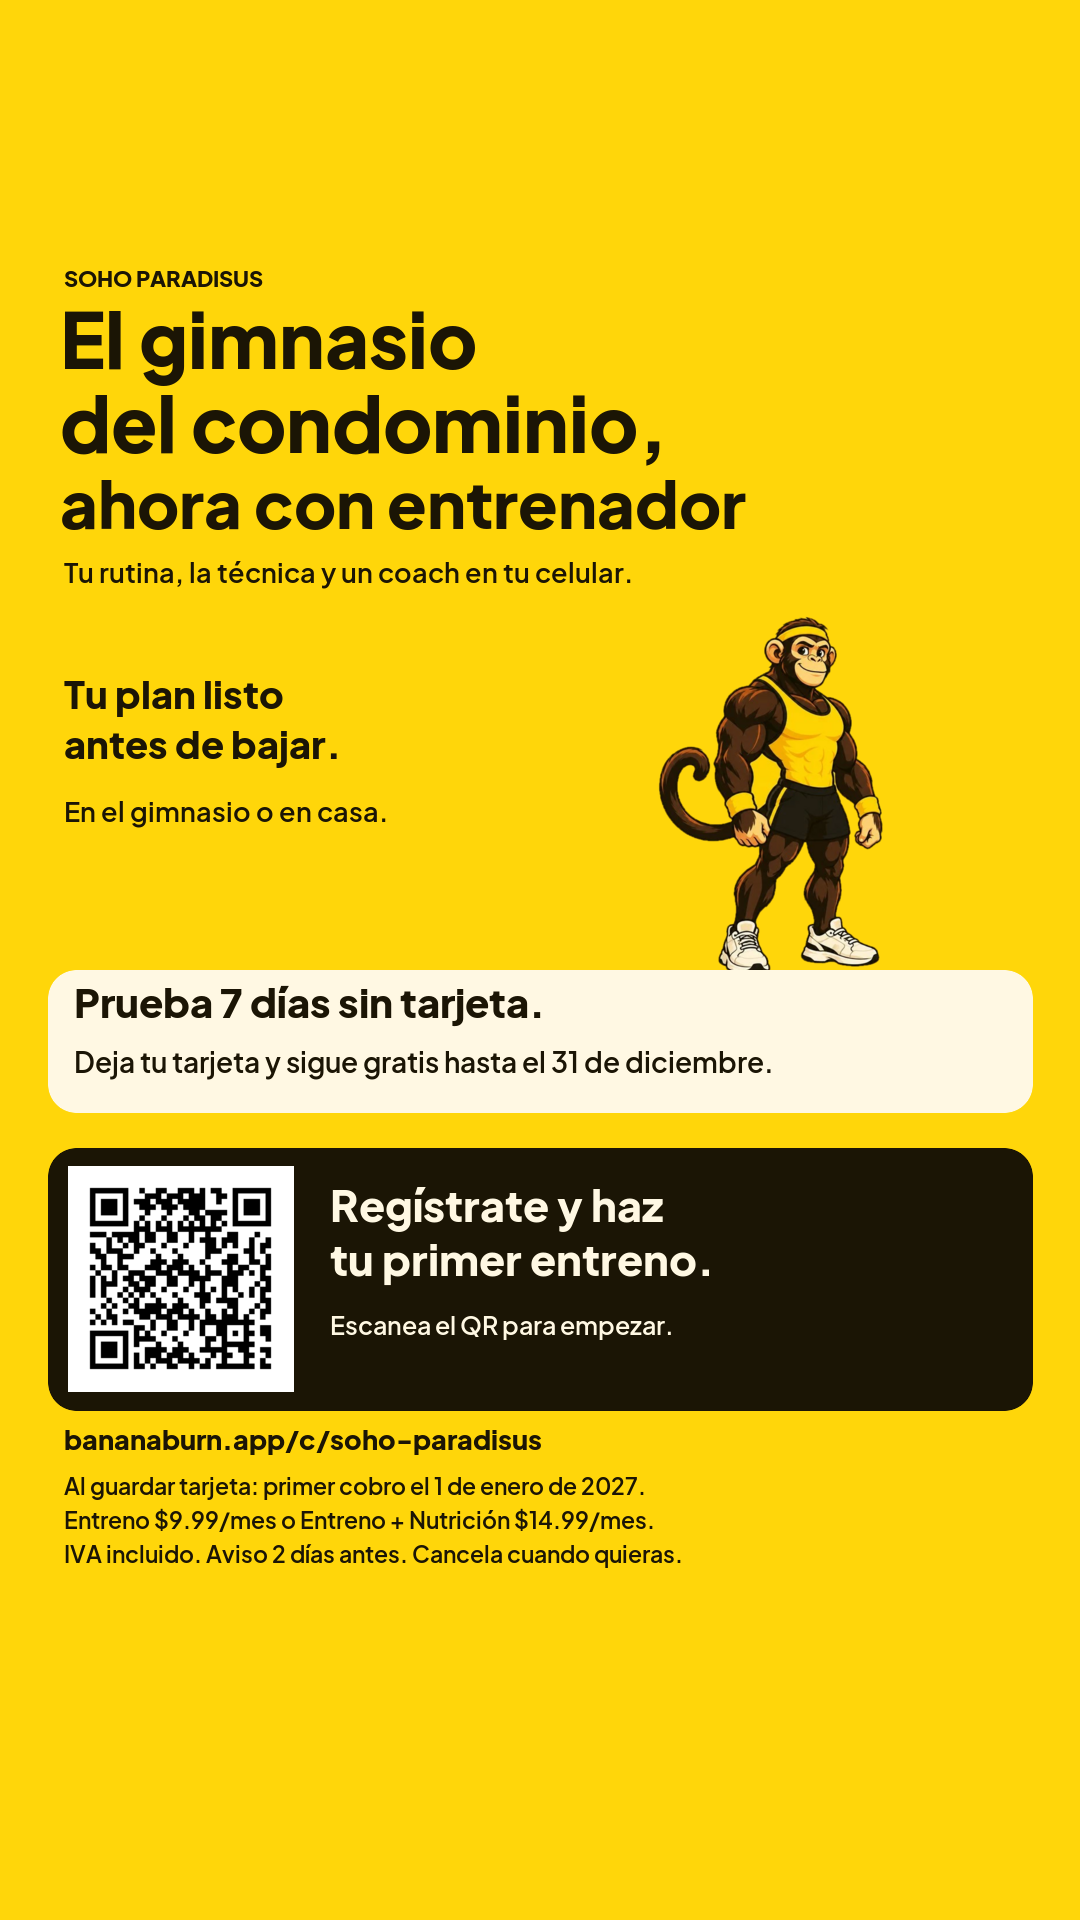
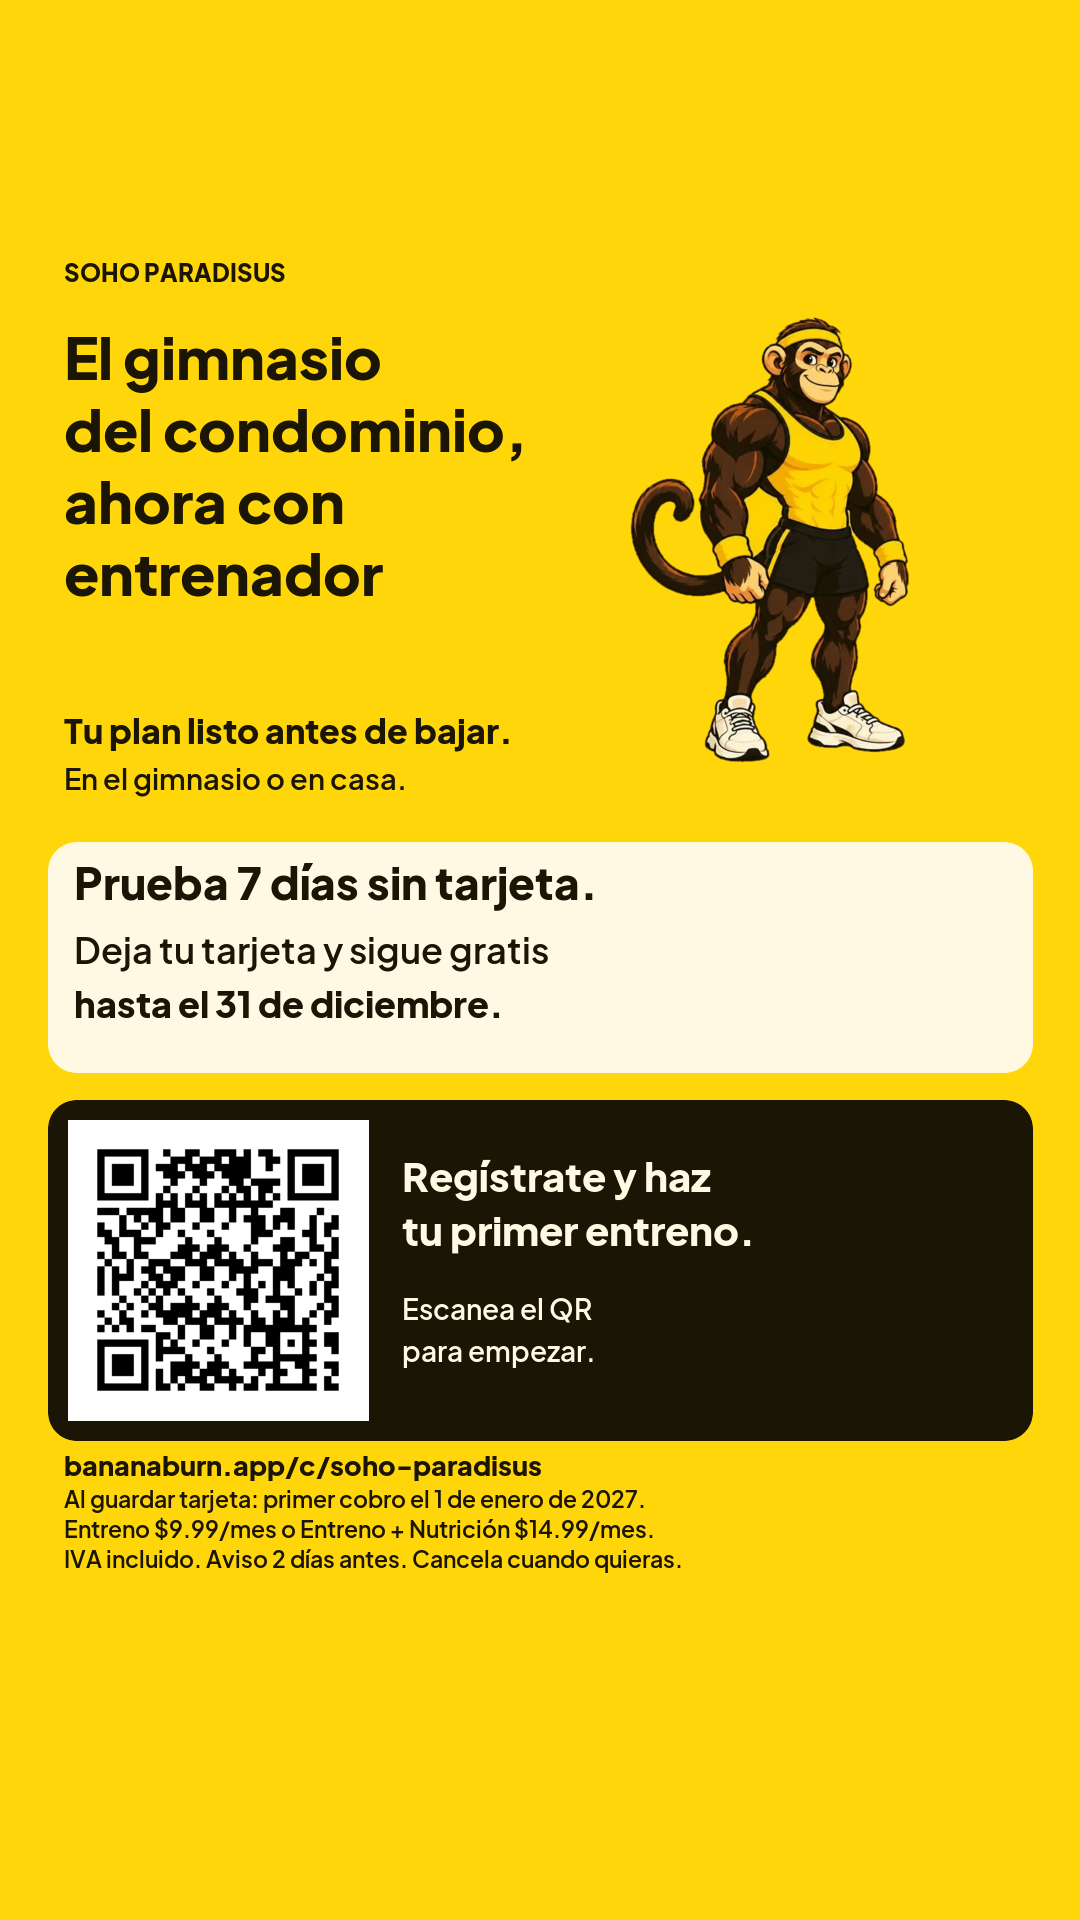
fix(marketing): ajusta historia y mensaje de Soho Paradisus
Distribuye la historia entre Coach Banana, oferta y QR ampliado dentro de la zona segura. Sustituye el mensaje corto por el texto de vecino solicitado en la segunda ronda y conserva el afiche y los demás mensajes aprobados.

Refs #265

Agent: Camila (ventas-b2b-condominios, ChatGPT gpt-6.1-sol)

Changed region(s): [[0.0306, 0.125, 0.9778, 0.8125]]

diff --git a/marketing/condominios/soho-paradisus/generar.py b/marketing/condominios/soho-paradisus/generar.py
@@ -126,42 +126,68 @@ def art(story, scene, tmp):
     def text(s, x, y, size, color=INK, bold=False):
         cmds.append(f'font {quote(FONT if bold else BODY)} font-size {size} fill {color} stroke none text {x},{y} {quote(s)}')
 
-    top = 265 if story else 64
-    rect(0, 0, 1080, 1920 if story else 1528, BANANA)
-    text('SOHO PARADISUS', 64, top + 22, 22, bold=True)
-    text('El gimnasio', 60, top + 104, 76, bold=True)
-    text('del condominio,', 60, top + 188, 76, bold=True)
-    text('ahora con entrenador', 60, top + 264, 65, bold=True)
-    text('Tu rutina, la técnica y un coach en tu celular.', 64, top + 318, 27)
-    # Approved art only. A supplied official scene replaces the local Coach.
-    imgy = top + 346
-    run('convert', scene, '-auto-orient', '-resize', '410x370', tmp / 'scene.png')
-    cmds.append(f'image over 610,{imgy} 0,0 {quote(tmp / "scene.png")}')
-    text('Tu plan listo', 64, imgy + 98, 38, bold=True)
-    text('antes de bajar.', 64, imgy + 148, 38, bold=True)
-    text('En el gimnasio o en casa.', 64, imgy + 211, 27)
-    offer_y = 970 if story else 820
-    rect(48, offer_y, 984, 142, PAPER, 28)
-    text('Prueba 7 días sin tarjeta.', 74, offer_y + 48, 40, bold=True)
-    text('Deja tu tarjeta y sigue gratis hasta el 31 de diciembre.', 74, offer_y + 103, 28)
-    cta_y = offer_y + 190
-    rect(48, cta_y - 12, 984, 262, INK, 28)
-    cmds.append(f'image over 68,{cta_y+6} 225,225 {quote(OUT / "qr.png")}')
-    text('Regístrate y haz', 330, cta_y + 62, 43, PAPER, True)
-    text('tu primer entreno.', 330, cta_y + 116, 43, PAPER, True)
-    text('Escanea el QR para empezar.', 330, cta_y + 175, 25, PAPER)
-    text('bananaburn.app/c/soho-paradisus', 64, cta_y + 290, 27, bold=True)
-    foot = cta_y + 335
-    text('Al guardar tarjeta: primer cobro el 1 de enero de 2027.', 64, foot, 23)
-    text('Entreno $9.99/mes o Entreno + Nutrición $14.99/mes.', 64, foot + 34, 23)
-    text('IVA incluido. Aviso 2 días antes. Cancela cuando quieras.', 64, foot + 68, 23)
-    if not story:
-        text('Banana', 64, 1453, 33, bold=True)
-        text('Burn', 193, 1453, 33, '#8A5300', True)
-        text('Solo para residentes de Soho Paradisus.', 402, 1453, 25)
+    if story:
+        rect(0, 0, 1080, 1920, BANANA)
+        text('SOHO PARADISUS', 64, 282, 24, bold=True)
+        text('El gimnasio', 64, 380, 58, bold=True)
+        text('del condominio,', 64, 452, 58, bold=True)
+        text('ahora con', 64, 524, 58, bold=True)
+        text('entrenador', 64, 596, 58, bold=True)
+        run('convert', scene, '-auto-orient', '-resize', '460x490', tmp / 'scene.png')
+        cmds.append(f'image over 570,310 0,0 {quote(tmp / "scene.png")}')
+        text('Tu plan listo antes de bajar.', 64, 744, 34, bold=True)
+        text('En el gimnasio o en casa.', 64, 790, 29)
+        rect(48, 842, 984, 230, PAPER, 28)
+        text('Prueba 7 días sin tarjeta.', 74, 900, 44, bold=True)
+        text('Deja tu tarjeta y sigue gratis', 74, 964, 36)
+        text('hasta el 31 de diciembre.', 74, 1018, 36, bold=True)
+        rect(48, 1100, 984, 340, INK, 28)
+        cmds.append(f'image over 68,1120 300,300 {quote(OUT / "qr.png")}')
+        text('Regístrate y haz', 402, 1192, 40, PAPER, True)
+        text('tu primer entreno.', 402, 1246, 40, PAPER, True)
+        text('Escanea el QR', 402, 1320, 28, PAPER)
+        text('para empezar.', 402, 1362, 28, PAPER)
+        text('bananaburn.app/c/soho-paradisus', 64, 1476, 27, bold=True)
+        text('Al guardar tarjeta: primer cobro el 1 de enero de 2027.', 64, 1508, 23)
+        text('Entreno $9.99/mes o Entreno + Nutrición $14.99/mes.', 64, 1538, 23)
+        text('IVA incluido. Aviso 2 días antes. Cancela cuando quieras.', 64, 1568, 23)
     else:
-        # Keep footer at y <=1570, clear of Instagram controls.
-        assert foot + 68 <= 1570
+        top = 265 if story else 64
+        rect(0, 0, 1080, 1920 if story else 1528, BANANA)
+        text('SOHO PARADISUS', 64, top + 22, 22, bold=True)
+        text('El gimnasio', 60, top + 104, 76, bold=True)
+        text('del condominio,', 60, top + 188, 76, bold=True)
+        text('ahora con entrenador', 60, top + 264, 65, bold=True)
+        text('Tu rutina, la técnica y un coach en tu celular.', 64, top + 318, 27)
+        # Approved art only. A supplied official scene replaces the local Coach.
+        imgy = top + 346
+        run('convert', scene, '-auto-orient', '-resize', '410x370', tmp / 'scene.png')
+        cmds.append(f'image over 610,{imgy} 0,0 {quote(tmp / "scene.png")}')
+        text('Tu plan listo', 64, imgy + 98, 38, bold=True)
+        text('antes de bajar.', 64, imgy + 148, 38, bold=True)
+        text('En el gimnasio o en casa.', 64, imgy + 211, 27)
+        offer_y = 970 if story else 820
+        rect(48, offer_y, 984, 142, PAPER, 28)
+        text('Prueba 7 días sin tarjeta.', 74, offer_y + 48, 40, bold=True)
+        text('Deja tu tarjeta y sigue gratis hasta el 31 de diciembre.', 74, offer_y + 103, 28)
+        cta_y = offer_y + 190
+        rect(48, cta_y - 12, 984, 262, INK, 28)
+        cmds.append(f'image over 68,{cta_y+6} 225,225 {quote(OUT / "qr.png")}')
+        text('Regístrate y haz', 330, cta_y + 62, 43, PAPER, True)
+        text('tu primer entreno.', 330, cta_y + 116, 43, PAPER, True)
+        text('Escanea el QR para empezar.', 330, cta_y + 175, 25, PAPER)
+        text('bananaburn.app/c/soho-paradisus', 64, cta_y + 290, 27, bold=True)
+        foot = cta_y + 335
+        text('Al guardar tarjeta: primer cobro el 1 de enero de 2027.', 64, foot, 23)
+        text('Entreno $9.99/mes o Entreno + Nutrición $14.99/mes.', 64, foot + 34, 23)
+        text('IVA incluido. Aviso 2 días antes. Cancela cuando quieras.', 64, foot + 68, 23)
+        if not story:
+            text('Banana', 64, 1453, 33, bold=True)
+            text('Burn', 193, 1453, 33, '#8A5300', True)
+            text('Solo para residentes de Soho Paradisus.', 402, 1453, 25)
+        else:
+            # Keep footer at y <=1570, clear of Instagram controls.
+            assert foot + 68 <= 1570
     mvg = tmp / ('story.mvg' if story else 'poster.mvg')
     mvg.write_text('\n'.join(cmds), encoding='utf-8')
     dest = OUT / ('historia.png' if story else 'afiche-a4.png')

diff --git a/marketing/condominios/soho-paradisus/verificar.py b/marketing/condominios/soho-paradisus/verificar.py
@@ -20,7 +20,7 @@ def read_matrix(name,origin,extent):
     return m
 
 ref=read_matrix('qr.png',(0,0),492)
-for name,origin,extent in [('historia.png',(68,1166),225),('afiche-a4.png',(68*2480/1080,1016*2480/1080),225*2480/1080)]:
+for name,origin,extent in [('historia.png',(68,1120),300),('afiche-a4.png',(68*2480/1080,1016*2480/1080),225*2480/1080)]:
     assert read_matrix(name,origin,extent)==ref, name
     print(name+': QR renderizado idéntico al original')
 

diff --git a/marketing/condominios/soho-paradisus/README.md b/marketing/condominios/soho-paradisus/README.md
@@ -8,9 +8,11 @@ Solo revisión de Andrés. No se publicó ni envió nada. La oferta especial cor
 - `mensajes.txt`: corta de tres líneas, completa y seguimiento. La completa adapta la estructura de `condoWhatsapp` en `src/lib/condos.ts` a la voz de Andrés como vecino, agregando duración, precios y aviso. No cambia la función compartida.
 - `generar.py`: fuente reproducible sin dependencias descargadas; requiere Python 3 e ImageMagick con FreeType y WebP. Ejecutar desde la raíz con `python3 marketing/condominios/soho-paradisus/generar.py`.
 
-## Pendiente visual antes de usar
+## Revisión visual de la ronda 2
 
-Falta la escena oficial de Coach Banana con El Nuevo. El repositorio solo contiene al Coach de pie; las escenas de ambos en `src/app/c/[code]/card-landing.tsx` son URLs remotas. Sin internet no se descargaron ni se redibujaron personajes. Estos borradores usan el Coach local y no satisfacen todavía la composición con ambos personajes. Por buscar: copia local aprobada de la escena `SCENE.juntos`, `hf_20261030_053039_48320df7-cb6a-475f-b521-539b0a30f22c.png`. El generador admite `--escena /ruta/escena.png` para reemplazar al Coach en ambas piezas. Revisar la composición tras sustituirla.
+Se mantiene solo Coach Banana de pie, autorizado en la respuesta del 4 de noviembre. La historia amplía el personaje arriba, coloca la oferta en el centro y agranda el QR abajo. El texto queda entre y=263 e y=1568, fuera de los 250 px superiores y los 340 px inferiores. El espacio restante corresponde a la zona reservada para los controles de Instagram. El afiche no cambia.
+
+El mensaje corto usa el texto solicitado por Andrés, distribuido en tres líneas. La versión completa y el seguimiento se conservan.
 
 El libro de marca externo tampoco se consultó: se usaron los skills montados y los tokens locales. Revisar el QR con un teléfono en la prueba impresa antes de colocar el afiche, y desde otro dispositivo antes de subir la historia.
 
